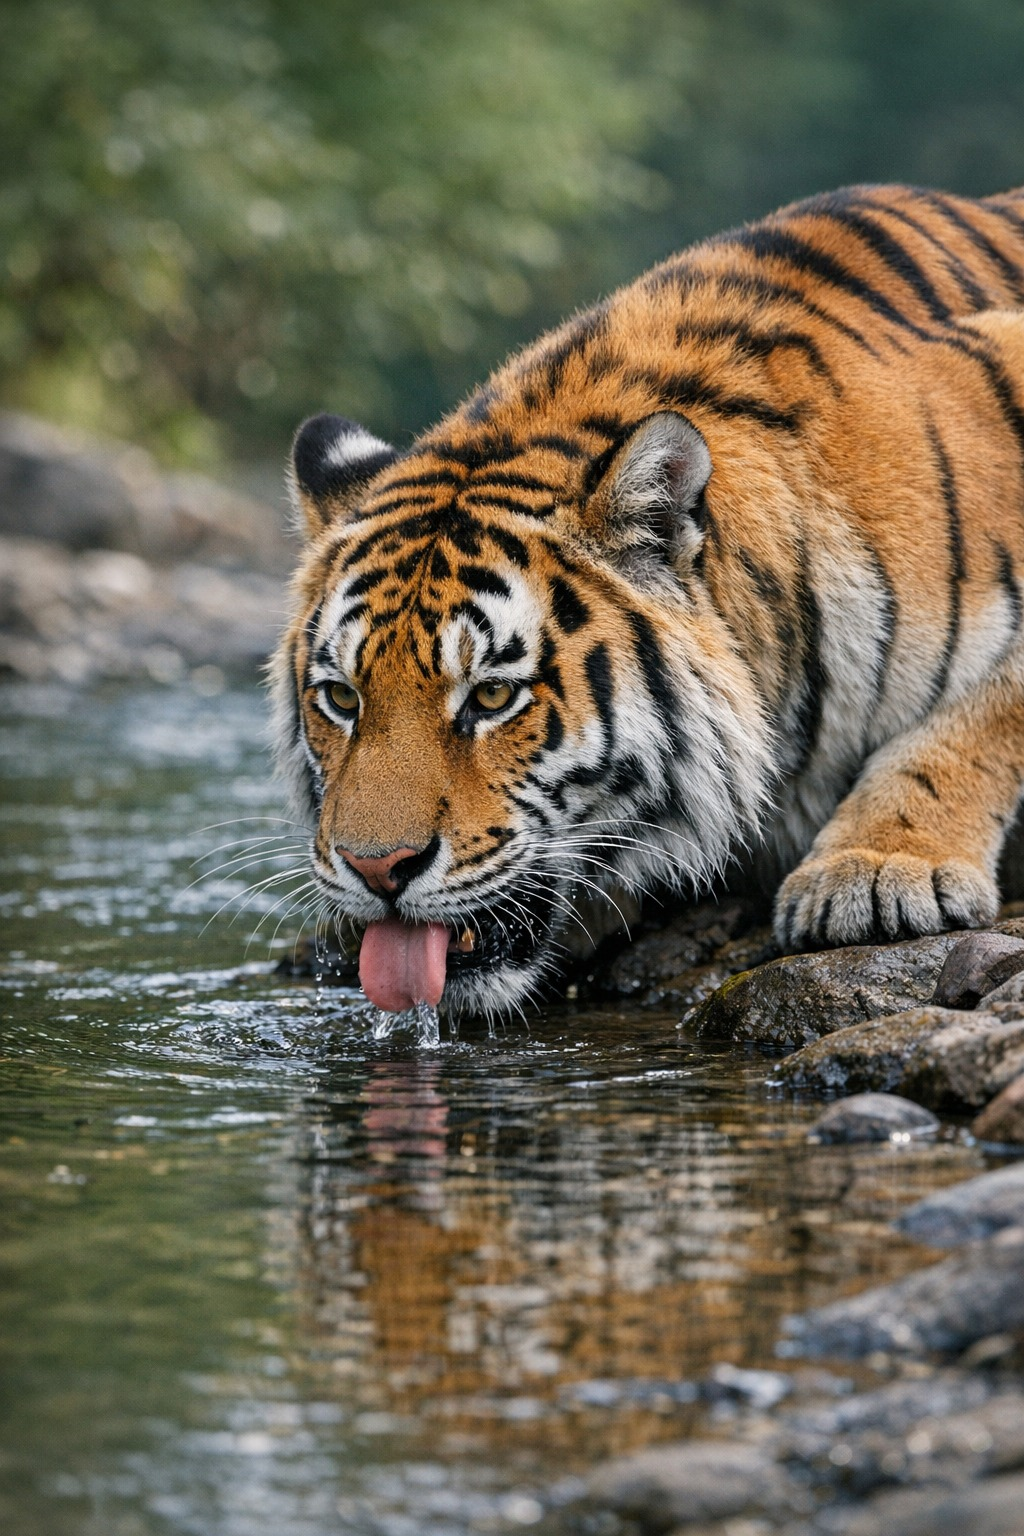
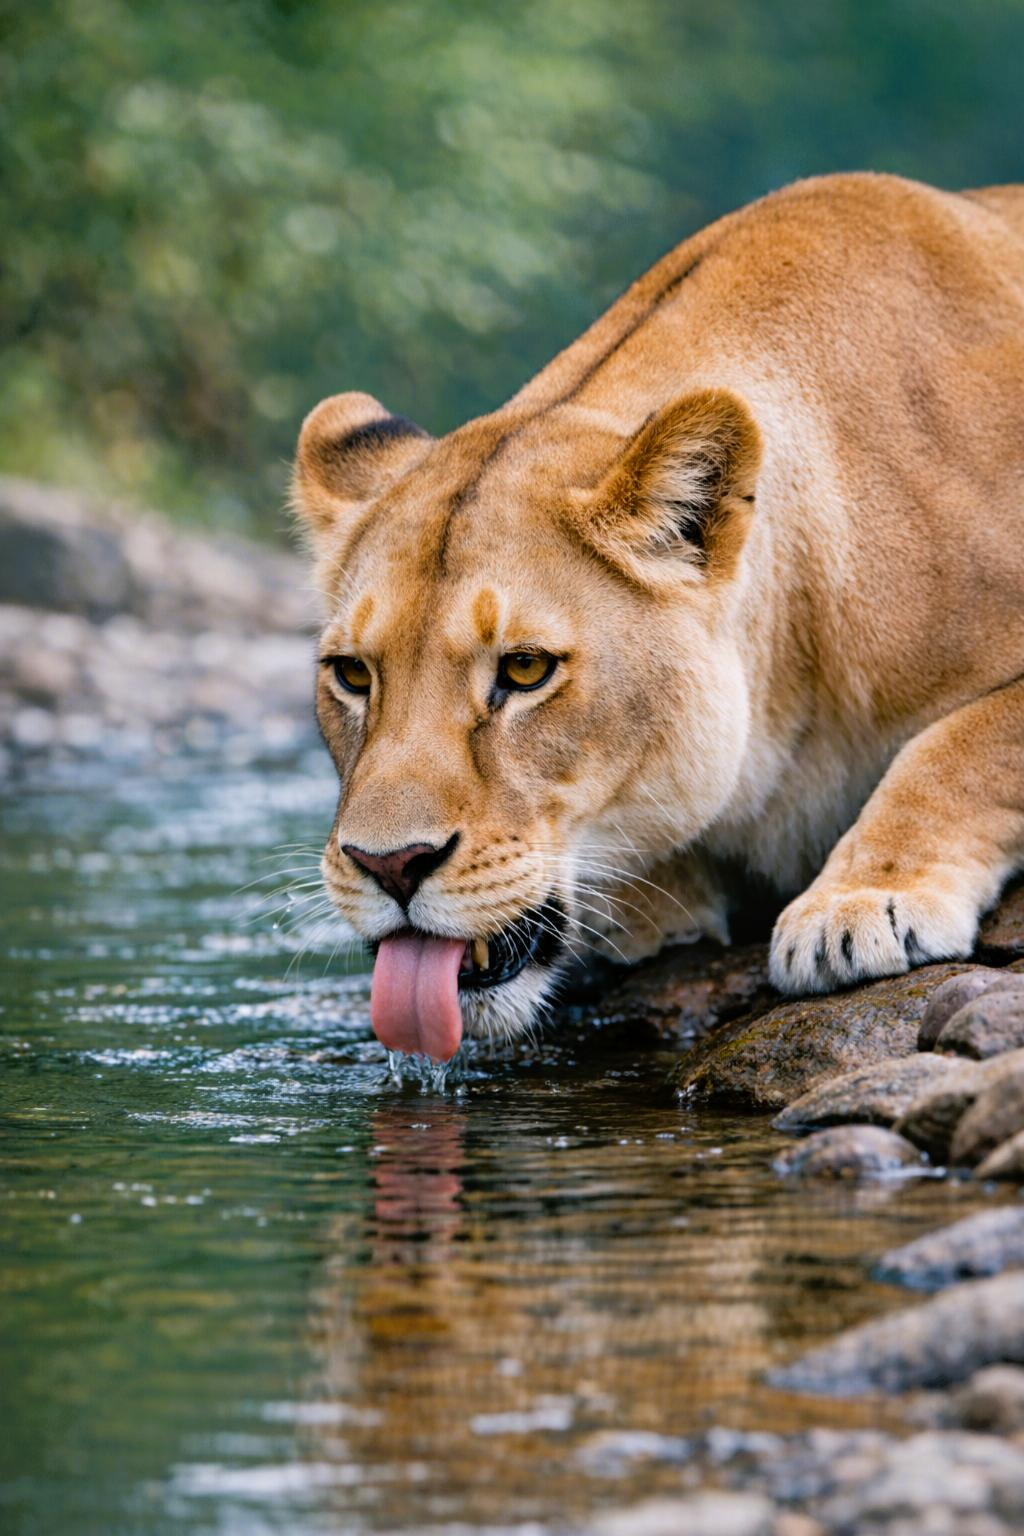
Quartz sync: Apr 14, 2026, 7:09 PM

diff --git a/content/010-Campaigns/110-Future-Possibilities.md b/content/010-Campaigns/110-Future-Possibilities.md
@@ -8,32 +8,57 @@ draft: false
 
 This site helps me look forward as well as back. I'm interested in running these scenarios at some future opportunity. Something old and something new.
 
-As my focus is running games online via[ FoundryVTT](https://foundryvtt.com/), my priority for choosing a future possibility is whether it has been, or can be, adapted to a Foundry-based [game system](https://foundryvtt.com/packages/systems).
+As my focus is running games online via [Foundry VTT](https://foundryvtt.com/), my priority for choosing a future possibility is whether it has been, or can be, adapted to a Foundry-based [game system](https://foundryvtt.com/packages/systems).
 
 ## Earth-Based Campaigns
+
+![[fp_fvtt_pendragon.png]]
+
+**Pendragon**
 
 **[[010-Knights-of-Arthurian-Britain#Second Campaign - 520 AD|Arthurian Britain]]** - (520 AD using [Pendragon 6th Edition](https://www.foundryvtt.store/products/cha-pen-fvtt-en-core)) - continuing the current campaign, moving forward to the next generation of PC knights, the sons of the PCs so well established in the game to date.
 
 ---
 
-**[Age of Vikings](https://www.foundryvtt.store/products/cha-aov-fvtt-en-core)** - (977 AD using [Basic Roleplaying: Universal Game Engine](https://www.chaosium.com/basic-roleplaying/)) - starting with [The Cursed Farm](https://foundryvtt.com/packages/cha-aov-fvtt-en-thecursedfarm) and learning one of the two systems I'm reviewing for [Antipodean Moon](https://antipodeanmoon.com/). I will also use [Cthulhu Through the Ages](https://www.drivethrurpg.com/en/product/167651/cthulhu-through-the-ages) for Dark Ages and Mythic Iceland references.
+![[fp_fvtt_age_of_vikings.png]]
+
+**Age of Vikings**
+
+**[Age of Vikings](https://www.foundryvtt.store/products/cha-aov-fvtt-en-core)** - (977 AD using [Basic Roleplaying: Universal Game Engine](https://www.chaosium.com/basic-roleplaying/)) - starting with [The Cursed Farm](https://foundryvtt.com/packages/cha-aov-fvtt-en-thecursedfarm) and learning one of the two systems I'm reviewing for [Antipodean Moon](https://antipodeanmoon.com/). I will also use [Cthulhu Through the Ages](https://www.drivethrurpg.com/en/product/167651/cthulhu-through-the-ages) for Dark Ages and Mythic Iceland references. See Andrew Logan Montgomery's [review](https://andrewloganmontgomery.blogspot.com/2023/04/basic-roleplaying-universal-game-engine.html) for more details on this system.
 
 ---
 
-**[[040-Dark-Ages|Dark Ages]]** - (1200 AD, Spain using [World of Darkness 5E](https://foundryvtt.com/packages/wod5e/)) - continuing the current campaign, providing opportunities to learn more about Clan Bahari and the workings of the Circle.
+![[fp_fvtt_dark_ages_vampire.webp]]
+
+**Dark Ages Vampire**
+
+**[[040-Dark-Ages|Dark Ages]]** - (1200 AD, Spain using [World of Darkness 5E](https://foundryvtt.com/packages/wod5e/)) - continuing the current campaign, providing opportunities to learn more about [[010-History-of-Clan-Bahari|Clan Bahari]] and the workings of the [[010-The-Circle-of-Order|Circle of Order]].
 
 **Knights Templar and the Crusades** - a new campaign starting in Saragossa and journeying to the Holy Land. The PCs are Templar Knights, [Imbued Hunters](https://whitewolf.fandom.com/wiki/Hunter:_The_Reckoning#Imbued), under the command of _[[Abdiel#^f5cf41|Don Juan Carlos Vega y Galino]]_, with the special commission of giving the unholy progeny of Cain the True Death.
 
 ---
 
+![[fp_fvtt_cthulhu_by_gaslight.webp]]
+
+**Cthulhu by Gaslight**
+
 **[Cthulhu by Gaslight](https://www.chaosium.com/cthulhu-by-gaslight-investigators-guide-pdf/)** - (late 1800s using [Call of Cthulhu](https://www.foundryvtt.store/products/cha-coc-fvtt-en-keeperitems)) - the other system I'm reviewing for [Antipodean Moon](https://antipodeanmoon.com/), supplemented by [Dark Designs](https://www.drivethrurpg.com/en/product/1676/dark-designs), [D20 Past](https://www.drivethrurpg.com/en/product/54231/d20-past-d20m), and [Pulp Cthulhu](https://www.drivethrurpg.com/en/product/199600/pulp-cthulhu-7th-edition-call-of-cthulhu)
- - [Call of Cthulhu Starter Kit](https://www.foundryvtt.store/products/cha-coc-fvtt-en-starterset) with [The Haunting](https://cultistarmoury.org/the-haunting/)
- - [Hudson & Brand](https://www.drivethrurpg.com/en/product/229175/hudson-brand-inquiry-agents-of-the-obscure-a-call-of-cthulhu-setting-for-cthulhu-by-gaslight) with [Spirits of London](https://www.drivethrurpg.com/en/product/229177/the-spirits-of-london-a-call-of-cthulhu-sourcebook-for-cthulhu-by-gaslight), [The Thirteen](https://www.drivethrurpg.com/en/product/229178/the-thirteen-a-call-of-cthulhu-sourcebook-for-cthulhu-by-gaslight), and [A Lens of Darkness](https://www.drivethrurpg.com/en/product/231982/a-lens-of-darkness) (Victorian Era London)
+ - [Hudson & Brand](https://www.drivethrurpg.com/en/product/229175/hudson-brand-inquiry-agents-of-the-obscure-a-call-of-cthulhu-setting-for-cthulhu-by-gaslight) with [Spirits of London](https://www.drivethrurpg.com/en/product/229177/the-spirits-of-london-a-call-of-cthulhu-sourcebook-for-cthulhu-by-gaslight), [The Thirteen](https://www.drivethrurpg.com/en/product/229178/the-thirteen-a-call-of-cthulhu-sourcebook-for-cthulhu-by-gaslight), and [A Lens of Darkness](https://www.drivethrurpg.com/en/product/231982/a-lens-of-darkness) (Victorian Era London).
 
 ---
 
-**[[050-Modern#From 1878 to 1926|Modern]]** - (1920s using [Call of Cthulhu](https://www.foundryvtt.store/products/cha-coc-fvtt-en-keeperitems)) - very short campaigns of a few weeks each:
+![[fp_fvtt_call_of_cthulhu.png]]
 
+**Call of Cthulhu**
+
+**[[050-Modern#From 1878 to 1926|Modern]]** - (1920s using [Call of Cthulhu](https://www.foundryvtt.store/products/cha-coc-fvtt-en-keeperitems)) - short campaigns of a few weeks each:
+
+- [Call of Cthulhu Quick-Start Rules](https://foundryvtt.com/packages/cha-coc-fvtt-en-quickstart) with [The Haunting](https://cultistarmoury.org/the-haunting/)
+- [Call of Cthulhu Starter Set](https://www.foundryvtt.store/products/cha-coc-fvtt-en-starterset) with:
+	- Alone Against the Flames (Solo Adventure)
+	- Paper Chase (1-2 Investigators + Keeper): The search for a missing professor leads to a grizzly discovery
+	- Edge of Darkness (2-5 Investigators + Keeper): A group of investigators fulfill the wish of a dying friend and attempt to undo the mistakes of the past
+	- Dead Man Stomp (2-5 Investigators + Keeper): Harlem and jazz music serve as a backdrop to the nefarious schemes of an alien god.
 - Casablanca (Morocco) - _[[Aletta-Yasmini|Aletta]]_ and _[[Viktor-Besarab|Viktor]]_ choose a side in the Rif War, August 1926
 - Los Angeles (USA) - _[[Alexandria-Mary-MacDonald|Alex]]_ and _[[Joshua-Eberhardt|Josh]]_ vs Hollywood’s [betrayal of "Bettys"](https://www.imdb.com/title/tt0166924), February 1926
 - Boston (USA) - _[[Diana-Elizabeth-Winthrop|Diana]]_ and _[[David-van-Hasalt|David]]_ vs the East Coast anarchist movement, April 1926
@@ -42,10 +67,19 @@ As my focus is running games online via[ FoundryVTT](https://foundryvtt.com/), m
 I’ve been developing a longer campaign set in [[India-Campaign-Notes|India]] in 1926 with _[[Rajkumari-Anjuli-of-Shahpura|Rajkumari Anjuli of Shahpura]]_ as the focus around whom events unfold. This offers the opportunity for a mix of Indian and [Cthulhu Mythos](https://en.wikipedia.org/wiki/Cthulhu_Mythos) stories, set in the twilight years of the British Raj.
 
 Anjuli’s companions will include _[[Tyson-Trevelyan|Baron Tyson Trevelyan]]_, an ex-British Army Major stationed in India who left the Army in dire circumstances. Tyson has a passion for climbing mountains and looking after his friends, particularly Sher Singh Ardra. Tyson also wants to tie up the loose ends caused by his break with his immediate family.
+<br>
+
+![[fp_fvtt_berlin_wicked_city.jpg]]
+
+**Berlin - The Wicked City**
 
 Another possibility is [Berlin - The Wicked City](https://www.drivethrurpg.com/en/product/269387/berlin-the-wicked-city), set in Weimar Germany between the end of the Great War and the rise of Adolf Hitler and the Nazi Party.
 
 ---
+
+![[fp_fvtt_everyday_heroes.jpeg]]
+
+**Everyday Heroes**
 
 **[[050-Modern#From 1983 to 1992|Modern]]** - (late 1990s using [Everyday Heroes](https://www.foundryvtt.store/products/eh-core-rulebook)):
 
@@ -55,9 +89,13 @@ Siding with the PCs are the _[[The-White-Magicians|White Magicians]]_; on the op
 
 **[[050-Modern#Nephilim, or Angels in America|Nephilim]]** (Cleveland) - referencing the [3E D20 Occult Lore](https://www.drivethrurpg.com/en/product/145735/occult-lore-penumbra-ogl-3e-digital) supplement?
 
-**[[USMC-Fireteam-SG-21|USMC Fireteam SG-21]]** - continuing the current campaign, but moving to the Stargate facility and referencing the [Stargate: SG-1 Roleplaying Game](https://en.wikipedia.org/wiki/Stargate_SG-1_\(roleplaying_game\)) for setting background.
+**[[USMC-Fireteam-SG-21|USMC Fireteam SG-21]]** - continuing the current campaign, but moving to the Stargate facility and referencing the [Stargate: SG-1 Roleplaying Game](https://en.wikipedia.org/wiki/Stargate_SG-1_\(roleplaying_game\)) for setting background. See also [Debriefing: The Stargate SG-1 Roleplaying Game](https://kismetrose.com/sg1/DebriefingIndex.html).
 
 ---
+
+![[fp_fvtt_delta_green.png]]
+
+**Delta Green Agent's Handbook**
 
 **[[050-Modern#Web of Spies|Web of Spies II]]** - (2019 AD using [Delta Green: Agents Handbook](https://www.foundryvtt.store/products/delta-green-agents-handbook)) - restarting my [Classic Spycraft/Shadowforce Archer](https://www.drivethrurpg.com/en/publisher/341/crafty-games/category/4320/classic-spycraft) and [Spycraft 2.0](https://www.drivethrurpg.com/en/publisher/341/crafty-games/category/4116/spycraft-2-0) campaign in the [COVID](https://en.wikipedia.org/wiki/COVID-19_pandemic) era.
 
@@ -67,18 +105,30 @@ Siding with the PCs are the _[[The-White-Magicians|White Magicians]]_; on the op
 
 ---
 
+![[fp_fvtt_the_secret_world.png]]
+
+**The Secret World**
+
 **[The Secret World](https://www.drivethrurpg.com/en/product/484494/the-secret-world-core-setting-swade)** - (current time using the [Savage Worlds Core Ruleset](https://foundryvtt.com/packages/swade-core-rules)) - a licensed IP roleplaying game based on the MMO of the [same name](https://www.secretworldlegends.com/#thegame). Inspired by [H.P. Lovecraft's Cthulhu Mythos](https://lovecraft.fandom.com/wiki/Cthulhu_Mythos). Also comes in a [D&D 5E](https://www.drivethrurpg.com/en/product/472546/the-secret-world-5e-core-book) version, but if I'm running D&D 5E, I'd prefer a fantasy setting rather than this modern setting.
 
 ## Alternate Worlds
 
-**[Dragon Age](https://www.drivethrurpg.com/en/product/147899/dragon-age-rpg-core-rulebook)** - (using the [The Expanse Ruleset](https://foundryvtt.com/packages/expanse), the only FoundryVTT system based on Green Ronin's [Adventure Game Engine](https://greenronin.com/what-is-age-the-adventure-game-engine/), the system underlying Dragon Age) - a licensed IP roleplaying game based on the video games of the [same name](https://www.ea.com/games/dragon-age).
+![[fp_fvtt_dragon_age.jpg]]
+
+**Dragon Age Quick Start Guide**
+
+**[Dragon Age](https://www.drivethrurpg.com/en/product/147899/dragon-age-rpg-core-rulebook)** - (using the [The Expanse Ruleset](https://foundryvtt.com/packages/expanse), the only Foundry VTT system based on Green Ronin's [Adventure Game Engine](https://greenronin.com/what-is-age-the-adventure-game-engine/), the system underlying Dragon Age) - a licensed IP roleplaying game based on the video games of the [same name](https://www.ea.com/games/dragon-age).
 
 ---
+
+![[fp_fvtt_thunder_rift.webp]]
+
+**Thunder Rift**
 
 **[[060-Dungeons-n-Dragons|Dungeons & Dragons]]** - (1000 AC using [Old School Essentials](https://www.foundryvtt.store/products/ose-advancedfantasytome) instead of [BECMI](https://www.drivethrurpg.com/en/browse?ruleSystem=44828-basic-becmi-or-od-d))
 
  - [Council of Wyrms](https://www.drivethrurpg.com/en/product/17026/campaign-option-council-of-wyrms-setting-2e) - be a dragon, half-dragon, or kindred demi-human in the [Dragon Kingdom of Wyrmsteeth](https://www.scribd.com/document/379650395/The-Dragon-Kingdom-of-Wyrmsteeth)
- - [Thunder Rift](https://www.legendkeeper.com/app/ckn05583migrz0762e8hapo3d/clmokg2nd005a033cwvm71x05/) from 1st to 5th level, then landing in [Pendleton](https://index.rpg.net/display-entry.phtml?mainid=14683) 
+ - [Thunder Rift](https://www.legendkeeper.com/app/ckn05583migrz0762e8hapo3d/clmokg2nd005a033cwvm71x05/) from 1st to 5th level, then landing in [Pendleton](https://1drv.ms/b/c/91410f4890c8961c/IQAclsiQSA9BIICR29ICAAAAAaSb8XFPPIXlvns5eTgDGdQ?e=1qav07) 
  - [Rules Cyclopedia](https://www.drivethrurpg.com/en/product/17171/d-d-rules-cyclopedia-basic) + BECMI Adventures from 1st to ? level
 	 - [B1-9: In Search of Adventure](https://index.rpg.net/display-entry.phtml?mainid=64) from 1st to 3rd level
 
@@ -88,6 +138,11 @@ Dungeons & Dragons - same setting and era as the Old School Essentials campaign 
  - [The Demon Queen Awakens](https://www.legendkeeper.com/app/ckn05583migrz0762e8hapo3d/clm4jsot90078033c3gze6y0p/)
  - [Ghoul Island](https://www.legendkeeper.com/app/ckn05583migrz0762e8hapo3d/cladh2zlu0008033c1zdcgu9j/) and then moving on to the [Isle of Dread](https://www.legendkeeper.com/app/ckn05583migrz0762e8hapo3d/ckn73hfrca5il0762pgsk2nk5/), referencing [Cthulhu by Torchlight](https://marketplace.dndbeyond.com/category/DBIRFDZMU)  
  - [Rime of the Frostmaiden](https://www.legendkeeper.com/app/ckn05583migrz0762e8hapo3d/clmk3zshy0003033cvz46mgvs/)
+<br>
+
+![[fp_fvtt_icespire_peak.jpg]]
+
+**Dragon of Icespire Peak, D&D Beyond**
 
 I've not adapted the following D&D 5E adventures to Mystara, so they will require additional work before being ready to play.
 
@@ -98,9 +153,17 @@ I've not adapted the following D&D 5E adventures to Mystara, so they will requir
 
 ---
 
+![[fp_fvtt_star_wars.jpg]]
+
+**Star Wars - Edge of the Empire**
+
 **[[070-Star-Wars|Star Wars]]** - (using [StarWarsFFG](https://github.com/StarWarsFoundryVTT/StarWarsFFG/wiki)) - continuing the classic space opera campaign post-Return of the Jedi but not following established book / comic continuity.
 
 ---
+
+![[fp_fvtt_cathulhu.jpg]]
+
+**Cathulhu**
 
 **[[080-Dreamlands|Dreamlands]]** - (equivalent technology to 1400 AD using ?) - 
 
@@ -109,9 +172,17 @@ I've not adapted the following D&D 5E adventures to Mystara, so they will requir
 
 ---
 
+![[fp_fvtt_bladerunner.jpg]]
+
+**Blade Runner**
+
 **[Blade Runner](https://freeleaguepublishing.com/games/blade-runner-rpg/)** - (2037 AD using [Blade Runner](https://www.foundryvtt.store/products/blade-runner-core-game)) - a new cyberpunk campaign set in the future with a USA orientation - gumshoe / film noir feel with Blade Runners and replicants (try to tell who's what).
 
 ---
+
+![[fp_fvtt_ruins_of_gauntlight.jpg]]
+
+**Ruins of Gauntlight**
 
 **[Gauntlight Keep](https://pathfinderwiki.com/wiki/Gauntlight_Keep)** - (4726 Age of Lost Omens using [Pathfinder 2E](https://foundryvtt.com/packages/pf2e)) - set on [Golarion](https://map.pathfinderwiki.com/#location=3.31/29.88/1.35) and starting with the [Pathfinder Beginner Box](https://www.foundryvtt.store/products/pf2e-beginner-box), Menace Under Otari, [Troubles in Otari](https://store.paizo.com/pathfinder-adventure-troubles-in-otari-pdf/), then [Abomination Vaults](https://www.foundryvtt.store/products/pf2e-abomination-vaults).
 
@@ -119,9 +190,17 @@ I've not adapted the following D&D 5E adventures to Mystara, so they will requir
 
 ---
 
-**[Magical Kitties Save the Day](https://www.atlas-games.com/magicalkitties)** - just here to see if you're still awake!
+![[fp_fvtt_magical_kitties.jpg]]
+
+**Magical Kitties Save the Day**
+
+**[Magical Kitties Save the Day](https://www.atlas-games.com/magicalkitties)** - yes, I'm serious! If you know me well, then you know why this is on my list.
 
 ---
+
+![[fp_fvtt_steamscapes.jpg]]
+
+**Steamscapes**
 
 **[Steampunk](https://en.wikipedia.org/wiki/Steampunk)** - (1800s using the [Savage Worlds Core Ruleset](https://foundryvtt.com/packages/swade-core-rules)) - more fantastic than gaslight, so set in alternate worlds instead of my regular series of earthbound campaigns
 
@@ -130,7 +209,11 @@ I've not adapted the following D&D 5E adventures to Mystara, so they will requir
 
 ---
 
-Also available for consideration, depending on how much work is needed for me to adapt the setting and adventures to a suitable FoundryVTT system:
+![[fp_fvtt_planescape.webp]]
+
+**Planescape**
+
+Also available for consideration, depending on how much work I have to do to adapt the setting and adventures to a suitable Foundry VTT system:
  - [AD&D First Edition](https://rpggeek.com/rpg/191/advanced-dungeons-and-dragons-1st-edition)
 	 - [Conan](http://www.waynesbooks.com/Conan.html) (1984)
 	 - [Modules](https://1drv.ms/f/c/91410f4890c8961c/IgAclsiQSA9BIICR-s4BAAAAAaBAI3eQZS4ZpZmIWL3VwqQ?e=tu6kPc) set mostly in Greyhawk

diff --git a/content/030-The-Library/The-Library.md b/content/030-The-Library/The-Library.md
@@ -12,38 +12,51 @@ draft: false
 
 My library holds my digital resources for the following roleplaying games, accessible to members by invitation only:
 
-- Basic Roleplaying - Universal Game Engine
-- Call of Cthulhu
-	- H.P. Lovecraft's Dreamlands
-- Changeling: The Dreaming
-- d20 Modern
-	- d20 Past
-	- d20 Modern
-	- d20 Future
-- Dungeons & Dragons
-	- B/X
-	- BECMI
-	- AD&D First Edition
-	- AD&D Second Edition
-	- 3.0 and 3.5
-	- 4.0
-	- 5.0 (2014) and 5.5 (2024)
-- Dark Ages Vampire
+- [Alderac Entertainment Group](https://www.alderac.com/)
+	- Spycraft
+		- [Classic Spycraft](https://www.drivethrurpg.com/en/publisher/341/crafty-games/category/4320/classic-spycraft)
+		- [Shadowforce Archer](https://www.drivethrurpg.com/en/product/24693/classic-spycraft-shadowforce-archer-worldbook)
+		- [Spycraft 2.0](https://www.drivethrurpg.com/en/publisher/341/crafty-games/category/4116/spycraft-2-0)
+	- [Stargate SG-1](https://www.drivethrurpg.com/en/product/55630/stargate-sg-1-roleplaying-game)
+- [Chaosium Inc.](https://www.chaosium.com/)
+	- [Basic Roleplaying - Universal Game Engine](https://www.chaosium.com/brp-core/)
+	- [Call of Cthulhu](https://www.chaosium.com/call-of-cthulhu-rpg/)
+		- [7th Edition](https://www.chaosium.com/call-of-cthulhu-rules/)
+		- [H.P. Lovecraft's Dreamlands](https://www.chaosium.com/h-p-lovecrafts-dreamlands-pdf/)
+		- [Pulp Cthulhu](https://www.chaosium.com/pulp-cthulhu-pdf/)
+	- [Nephilim](https://www.chaosium.com/nephilim/)
+	- [Pendragon](https://www.chaosium.com/pendragon-rpg/)
+	- [RuneQuest](https://www.chaosium.com/runequest-rpg/)
 - Delta Green
 - Dragon Age Origins
-- Mage: The Ascension
-- Nephilim
 - Old School Essentials
 - Pathfinder
 	- First Edition
 	- Second Edition
-- Pendragon
 - Savage Worlds
-- Spycraft
-	- Classic Spycraft
-	- Spycraft 2
 - Star Wars
-- Stargate SG-1
-- Vampire: The Masquerade
+- [TSR](https://en.wikipedia.org/wiki/TSR,_Inc.)
+	- [Basic](https://www.drivethrurpg.com/en/product/110274/d-d-basic-set-rulebook-b-x-ed-basic)/[Expert](https://www.drivethrurpg.com/en/product/110792/d-d-expert-set-rulebook-b-x-ed-basic) (B/X)
+	- [BECMI](https://www.drivethrurpg.com/en/product/17171/d-d-rules-cyclopedia-basic)
+	- [AD&D First Edition](https://rpggeek.com/rpg/191/advanced-dungeons-and-dragons-1st-edition)
+	- [AD&D Second Edition](https://rpggeek.com/rpg/244/advanced-dungeons-and-dragons-2nd-edition)
+- [Wizards of the Coast](https://company.wizards.com/en)
+	- [d20 Modern](https://www.drivethrurpg.com/en/product/28720/d20-modern-core-rulebook-d20m)
+		- [d20 Apocalypse](https://www.drivethrurpg.com/en/product/3728/d20-apocalypse-d20m)
+		- [d20 Cyberscape](https://www.drivethrurpg.com/en/product/28593/d20-cyberscape-d20m)
+		- [d20 Future](https://www.drivethrurpg.com/en/product/3738/d20-future-d20m)
+		- [d20 Menace Manual](https://www.drivethrurpg.com/en/product/28615/d20-menace-manual-d20m)
+		- [d20 Past](https://www.drivethrurpg.com/en/product/54231/d20-past-d20m)
+		- [d20 Weapons Locker](https://www.drivethrurpg.com/en/product/28586/d20-weapons-locker)
+	- [Dungeons & Dragons](https://www.dungeonsanddragons.com/)
+		- [3.0](https://rpggeek.com/rpg/221/dungeons-and-dragons-3rd-edition) and [3.5](https://rpggeek.com/rpg/243/dungeons-and-dragons-35-edition)
+		- [4.0](https://rpggeek.com/rpg/190/dungeons-and-dragons-4th-edition)
+		- [5.0 (2014)](https://rpggeek.com/rpg/17181/dungeons-and-dragons-5th-edition) and [5.5 (2024)](https://www.dndbeyond.com/posts/1875-updating-your-campaign-to-the-5-5e-d-d-rules)
+- White Wolf
+	- Dark Ages Vampire
+	- Changeling: The Dreaming
+	- Demon: The Fallen
+	- Mage: The Ascension
+	- Vampire: The Masquerade
 
 From ["Kasandrah"](https://startplaying.games/gm/kasandrah), with love!

diff --git a/content/080-Characters/GM-as-Player/Alejandro-Guerrero.md b/content/080-Characters/GM-as-Player/Alejandro-Guerrero.md
@@ -34,9 +34,17 @@ Xiucoatl is directing Alejandro to find the matching crystal axe, also sentient!
 
  - Ehecachichtli "Whistle", Lizardman Rogue, [[Ben-G|Ben G.]] ^7a3727
  - Jeb Sam Smithy, Human Paladin, Ryan W.
+ - Lucky, Tabaxi Monk, Feronas
  - Silas Nonagesimus, Storm Sorcerer, Zac W.
  - Tavie Vix, Wood ½-Elf Hexblade Warlock, Feronas
  - Zephyra Breezeborn, Owl Circle of Stars Druid, Clegg I.
+
+![[gm_lucky.jpg]]
+
+**Lucky**
+
+Alejandro likes Lucky, like, really likes Lucky!
+
 
 
 

diff --git a/content/070-Adventures/Modern/From-1878-to-1926/African-Cat-People.md b/content/070-Adventures/Modern/From-1878-to-1926/African-Cat-People.md
@@ -18,9 +18,9 @@ draft: false
 
 ![[cc_african_cat_people.jpg]]
 
-**Tiger Drinking, MS Copilot**
+**Lioness Drinking, MS365 Copilot**
 
-1922 September 26th to end December - London to Tanganyika, East Africa then home via Alexandria, Athens, and then to Paris via the Orient Express.
+1922 September 26th to the end of December - London to Tanganyika, East Africa, then home via Alexandria, Athens, and then to Paris via the Orient Express.
 
 Also known as **“Black Claws”**.
 

diff --git a/content/080-Characters/GM-as-Player/Hrithik-Olafsson.md b/content/080-Characters/GM-as-Player/Hrithik-Olafsson.md
@@ -92,11 +92,11 @@ Evelyn is the only one of her family to come to Whitehall so far, although one o
 
 ## Character Sheets
 
-### D&D 3.5 FoundryVTT
+### D&D 3.5 Foundry VTT
 
 ![[gm_hrithik_character_sheet.pdf]]
 
-**Hrithik Olafsson, D&D 3.5 FoundryVTT**
+**Hrithik Olafsson, D&D 3.5 Foundry VTT**
 
 ### D&D 3.5 Hero Lab
 

diff --git a/content/080-Characters/Dungeons-n-Dragons/Yakov.md b/content/080-Characters/Dungeons-n-Dragons/Yakov.md
@@ -1,6 +1,11 @@
 ---
 aliases:
   - Yakov
+tags:
+  - dungeons-n-dragons
+  - player-character
+title: Yakov
+draft: false
 ---
 # Yakov
 

diff --git a/content/080-Characters/Dungeons-n-Dragons/Vlad.md b/content/080-Characters/Dungeons-n-Dragons/Vlad.md
@@ -1,6 +1,11 @@
 ---
 aliases:
   - Vlad
+tags:
+  - dungeons-n-dragons
+  - player-character
+title: Vlad
+draft: false
 ---
 # Vlad
 
